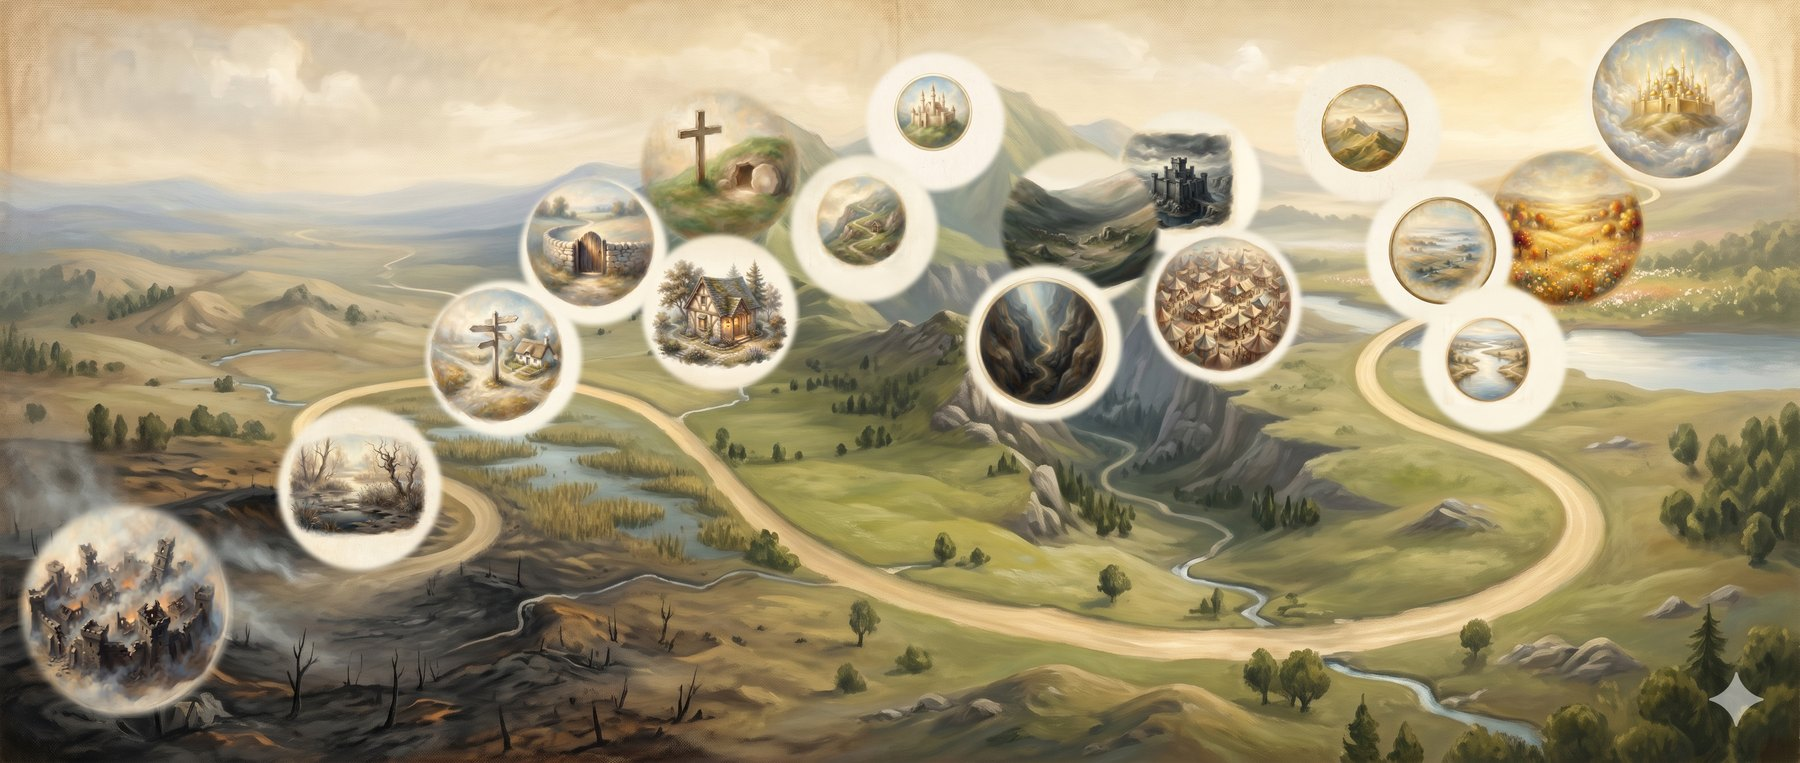
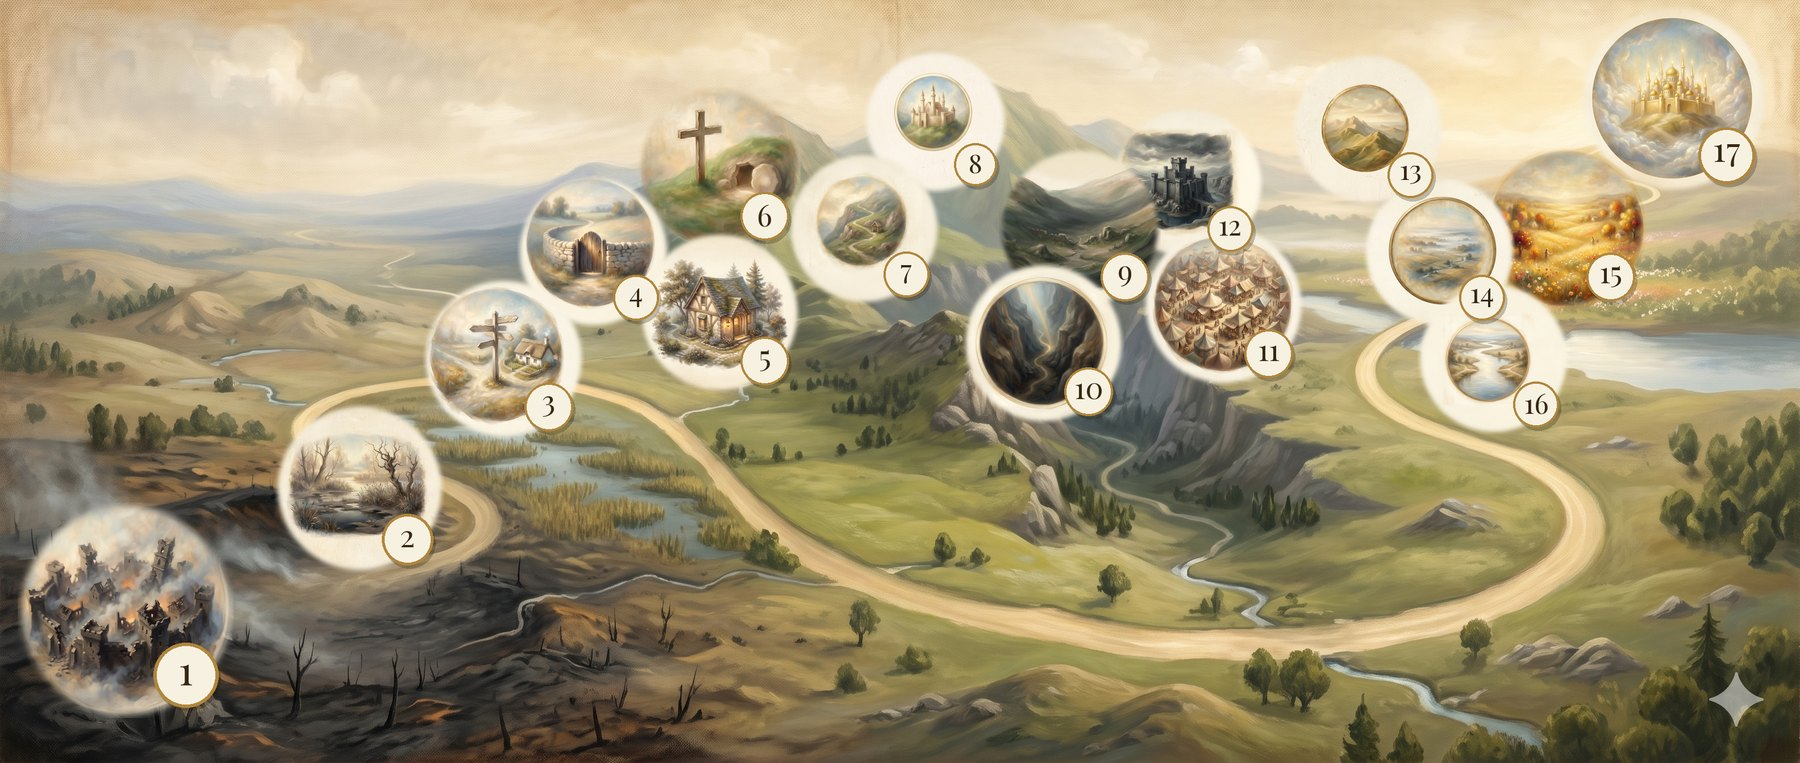
Add files via upload

diff --git a/the-map-of-the-way.html b/the-map-of-the-way.html
@@ -87,6 +87,29 @@
           <figcaption>The pilgrim's road, from the City of Destruction to the Celestial City.</figcaption>
         </figure>
 
+        <div class="nw-mapkey nw-rise d3">
+          <p class="nw-mapkey-h">The road, in order</p>
+          <ol class="nw-mapkey-list">
+            <li><span class="n">1</span><a href="way/01-city-of-destruction.html">The City of Destruction</a></li>
+            <li><span class="n">2</span><a href="way/02-slough-of-despond.html">The Slough of Despond</a></li>
+            <li><span class="n">3</span><a href="way/03-mr-worldly-wiseman.html">Mr. Worldly Wiseman</a></li>
+            <li><span class="n">4</span><a href="way/04-the-wicket-gate.html">The Wicket Gate</a></li>
+            <li><span class="n">5</span><a href="way/05-the-interpreters-house.html">The Interpreter's House</a></li>
+            <li><span class="n">6</span><a href="way/06-the-cross.html">The Cross</a></li>
+            <li><span class="n">7</span><a href="way/07-hill-difficulty.html">The Hill Difficulty</a></li>
+            <li><span class="n">8</span><a href="way/08-palace-beautiful.html">Palace Beautiful</a></li>
+            <li><span class="n">9</span><a href="way/09-valley-of-humiliation.html">The Valley of Humiliation</a></li>
+            <li><span class="n">10</span><a href="way/10-valley-of-the-shadow.html">The Valley of the Shadow</a></li>
+            <li><span class="n">11</span><a href="way/11-vanity-fair.html">Vanity Fair</a></li>
+            <li><span class="n">12</span><a href="way/12-doubting-castle.html">Doubting Castle</a></li>
+            <li><span class="n">13</span><a href="way/13-delectable-mountains.html">The Delectable Mountains</a></li>
+            <li><span class="n">14</span><a href="way/14-enchanted-ground.html">The Enchanted Ground</a></li>
+            <li><span class="n">15</span><a href="way/15-land-of-beulah.html">The Land of Beulah</a></li>
+            <li><span class="n">16</span><a href="way/16-river-of-death.html">The River of Death</a></li>
+            <li><span class="n">17</span><a href="way/17-celestial-city.html">The Celestial City</a></li>
+          </ol>
+        </div>
+
         <div class="nw-copy nw-rise d3">
           <p>Every place on the map is a real stop on this site, and most are doorways into a study or a wayside help. If a name is unfamiliar — <em>the Slough of Despond</em>, <em>the Wicket Gate</em>, <em>Vanity Fair</em> — the <a href="about-the-journey.html">About the Journey</a> page tells the old story in brief and explains each one.</p>
         </div>

diff --git a/assets/narrow-way.css b/assets/narrow-way.css
@@ -427,3 +427,19 @@ main.nw-landmark{width:100%; max-width:calc(var(--measure) + 6rem); margin:0 aut
 .nw-footer .fine.ai-note{margin-top:.7rem; opacity:.85; max-width:48rem}
 .nw-footer .fine.ai-note a{color:var(--gold-lt); text-decoration:underline; text-underline-offset:2px}
 .nw-footer .fine.ai-note a:hover{color:#fff}
+
+/* The numbered key beneath the illustrated map */
+.nw-mapkey{margin:1.8rem auto 0; max-width:60rem}
+.nw-mapkey-h{font-family:'Cormorant SC',serif; letter-spacing:.08em; text-transform:uppercase;
+  font-size:.8rem; color:var(--ink-muted); text-align:center; margin:0 0 1rem}
+.nw-mapkey-list{list-style:none; margin:0; padding:0;
+  display:grid; grid-template-columns:repeat(2,1fr); gap:.5rem 2rem}
+.nw-mapkey-list li{display:flex; align-items:baseline; gap:.7rem; font-family:'Crimson Pro',serif;
+  font-size:1.02rem; border-bottom:1px solid var(--line); padding:.32rem .1rem}
+.nw-mapkey-list .n{flex:0 0 auto; display:inline-flex; align-items:center; justify-content:center;
+  width:1.55rem; height:1.55rem; border-radius:50%; background:#f7f1e2; border:1.5px solid var(--gold);
+  color:#5a4317; font-family:'Playfair Display',serif; font-weight:700; font-size:.82rem;
+  font-feature-settings:"lnum"; line-height:1}
+.nw-mapkey-list a{color:var(--ink-soft); text-decoration:none}
+.nw-mapkey-list a:hover{color:var(--teal); text-decoration:underline; text-underline-offset:2px}
+@media (max-width:620px){ .nw-mapkey-list{grid-template-columns:1fr} }